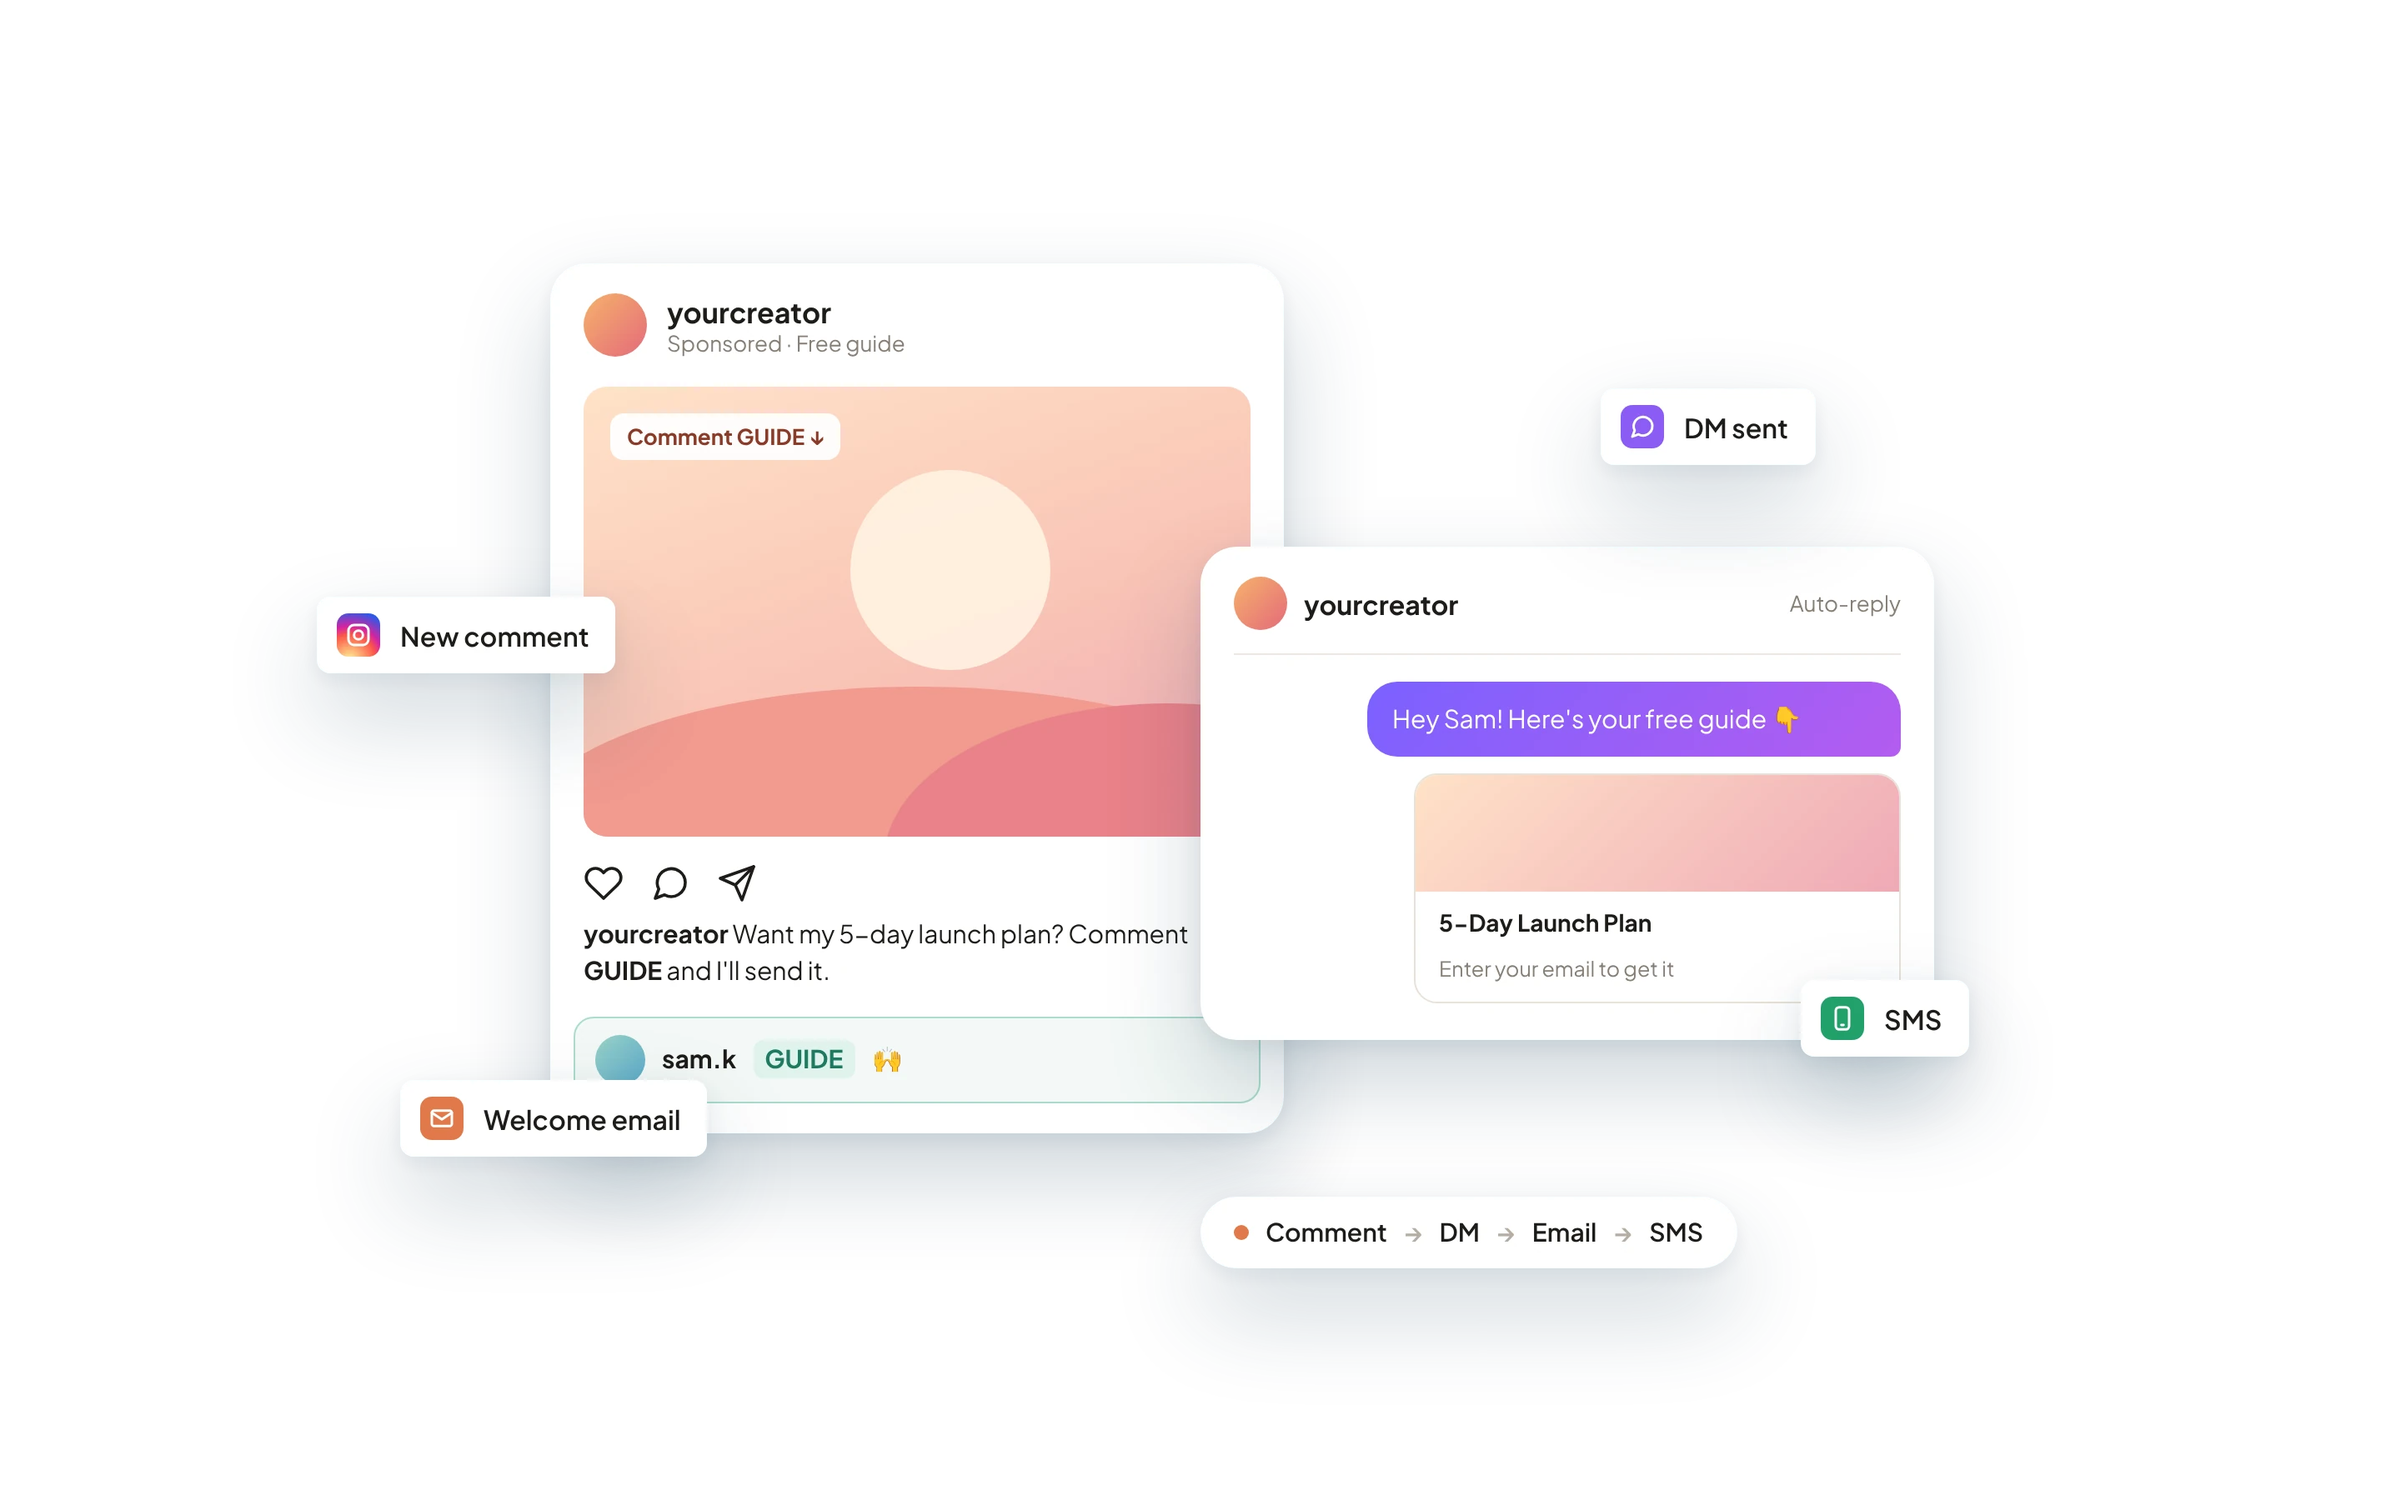
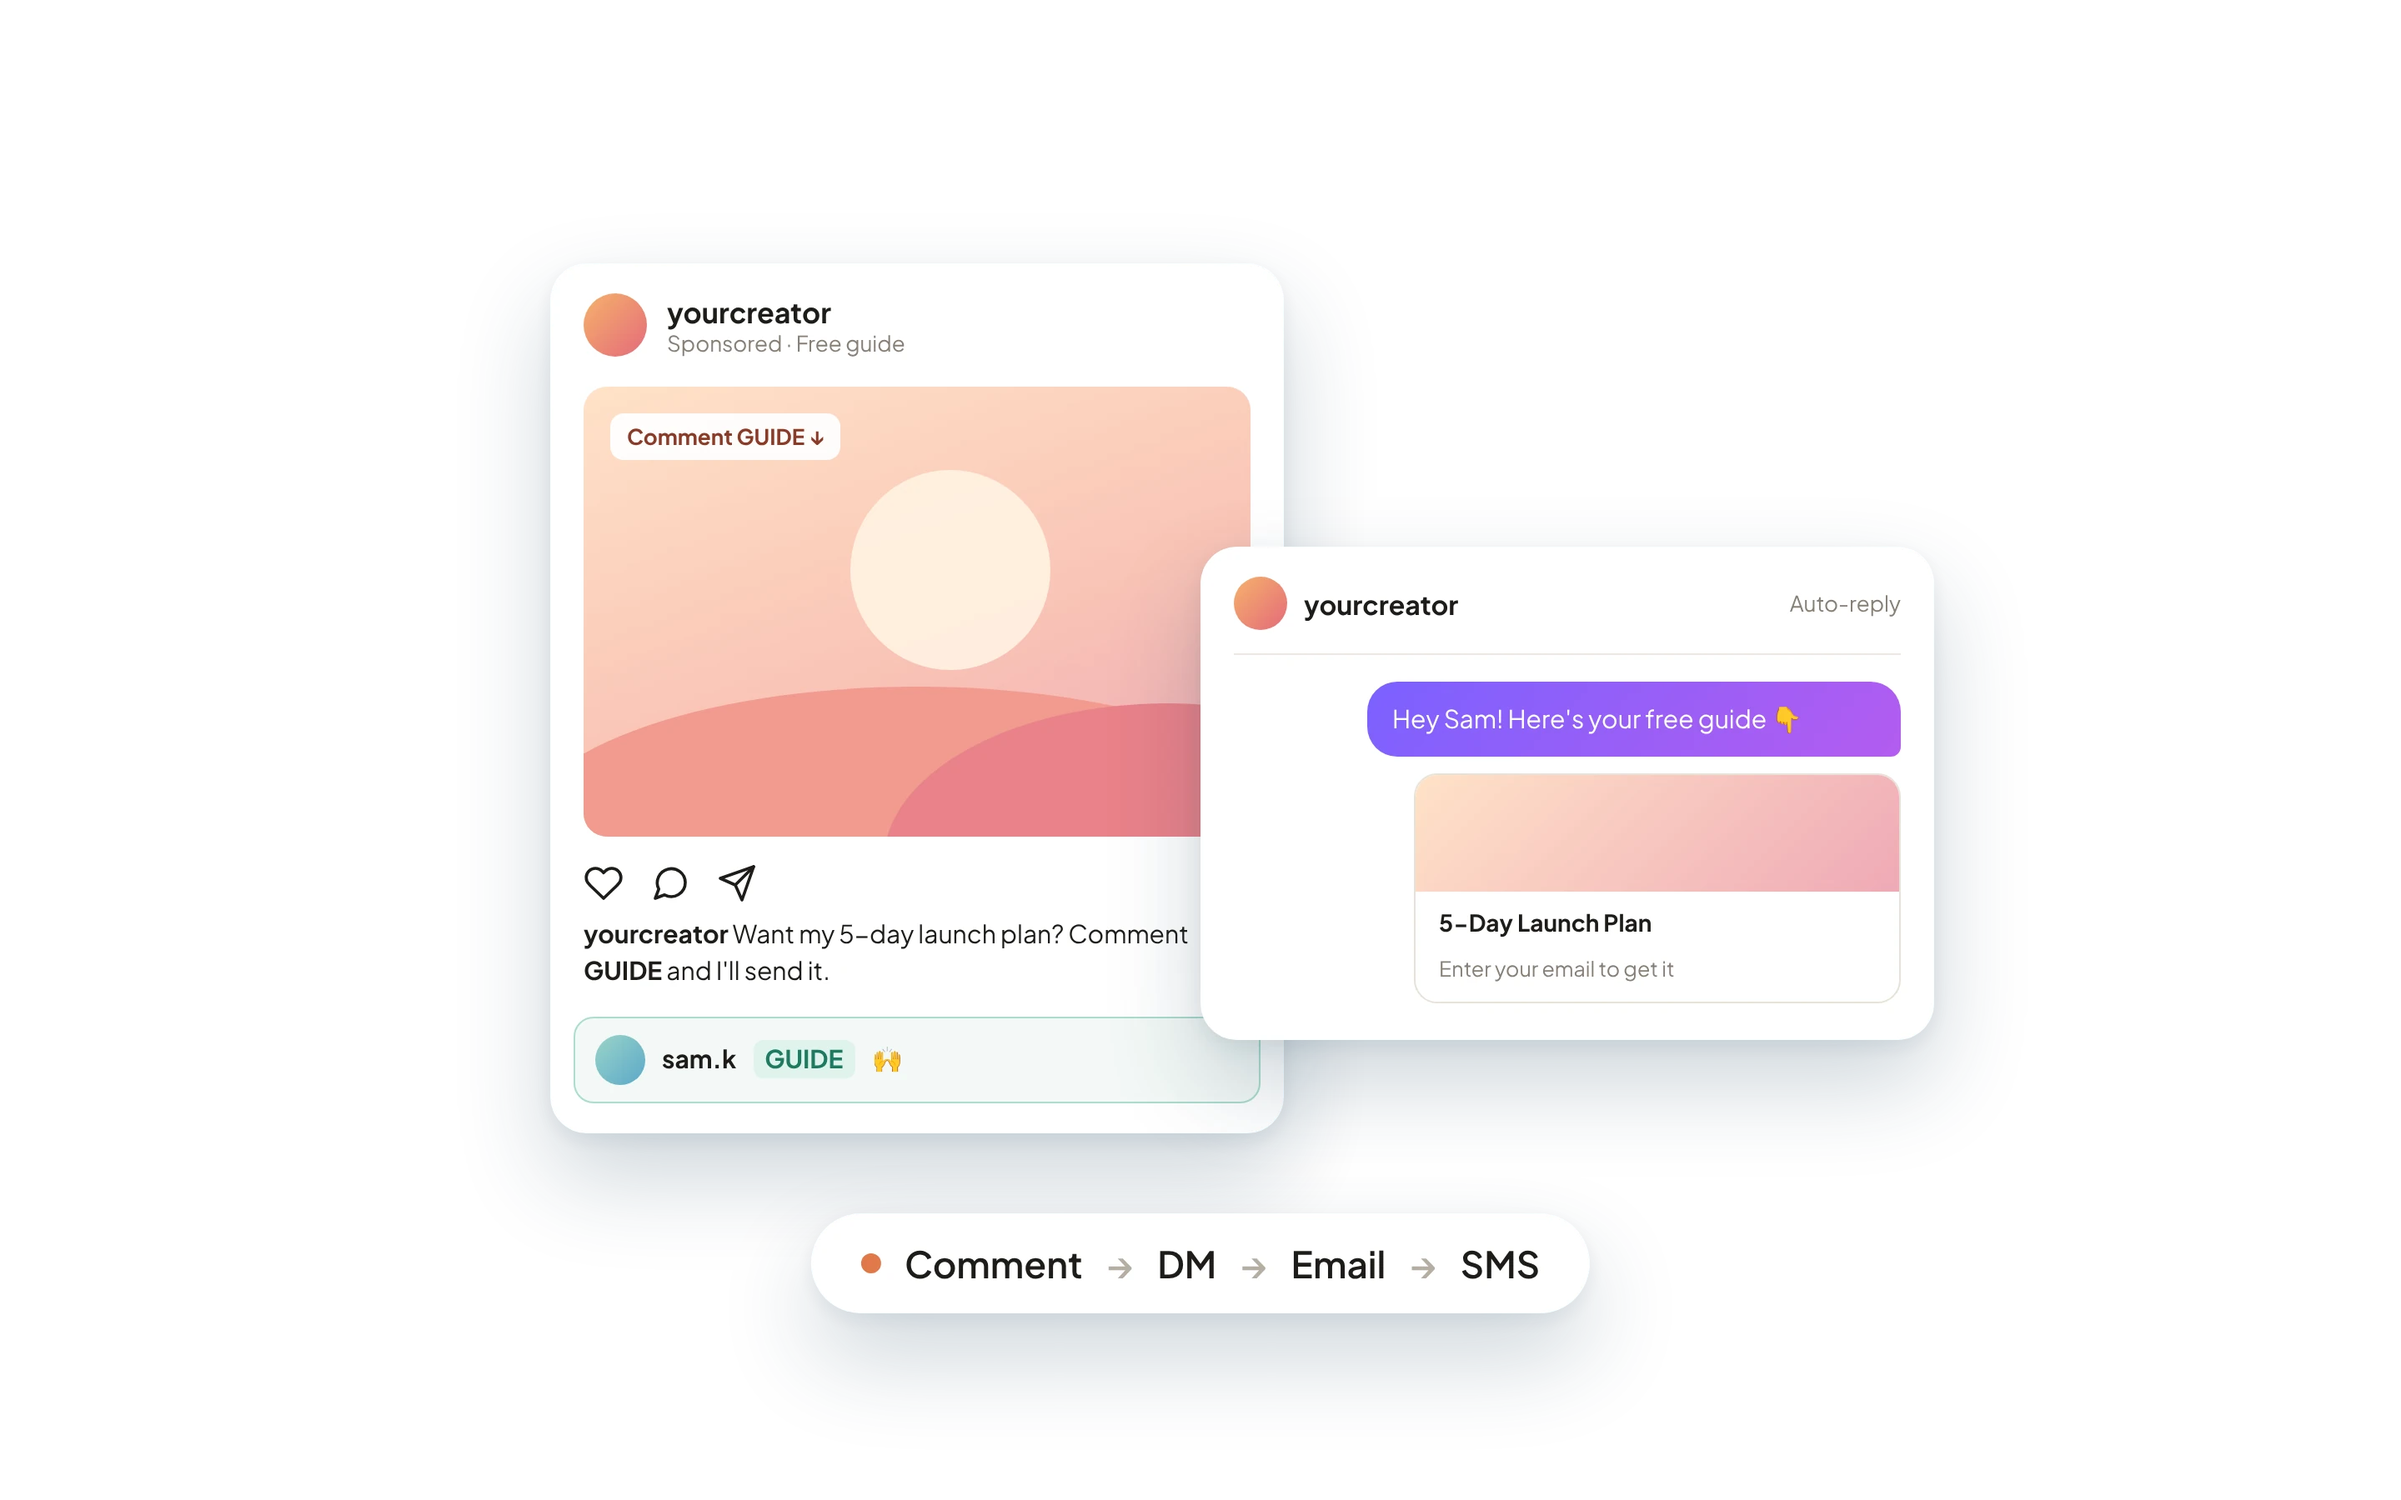
CS3 card: drop chips, larger centered flow bar
Claude-Session: https://claude.ai/code/session_013iv52MsjwzSPMq98qC5Wdq

diff --git a/index.html b/index.html
@@ -272,7 +272,7 @@
           <li class="reveal" data-reveal data-delay="3">
             <a class="project-card" href="./case-study-03.html" data-page-link>
               <div class="project-visual project-visual--03">
-                <img class="project-visual-gif" src="./assets/cs3-project-card-v3.webp?v=1" width="1440" height="900" loading="lazy" decoding="async" alt="An Instagram post where a follower comments GUIDE, triggering an automatic DM with a free guide, then a welcome email and SMS" />
+                <img class="project-visual-gif" src="./assets/cs3-project-card-v3.webp?v=2" width="1440" height="900" loading="lazy" decoding="async" alt="An Instagram post where a follower comments GUIDE, triggering an automatic DM with a free guide, then a welcome email and SMS" />
                 <span class="project-index" aria-hidden="true">03</span>
               </div>
               <div class="project-body">
